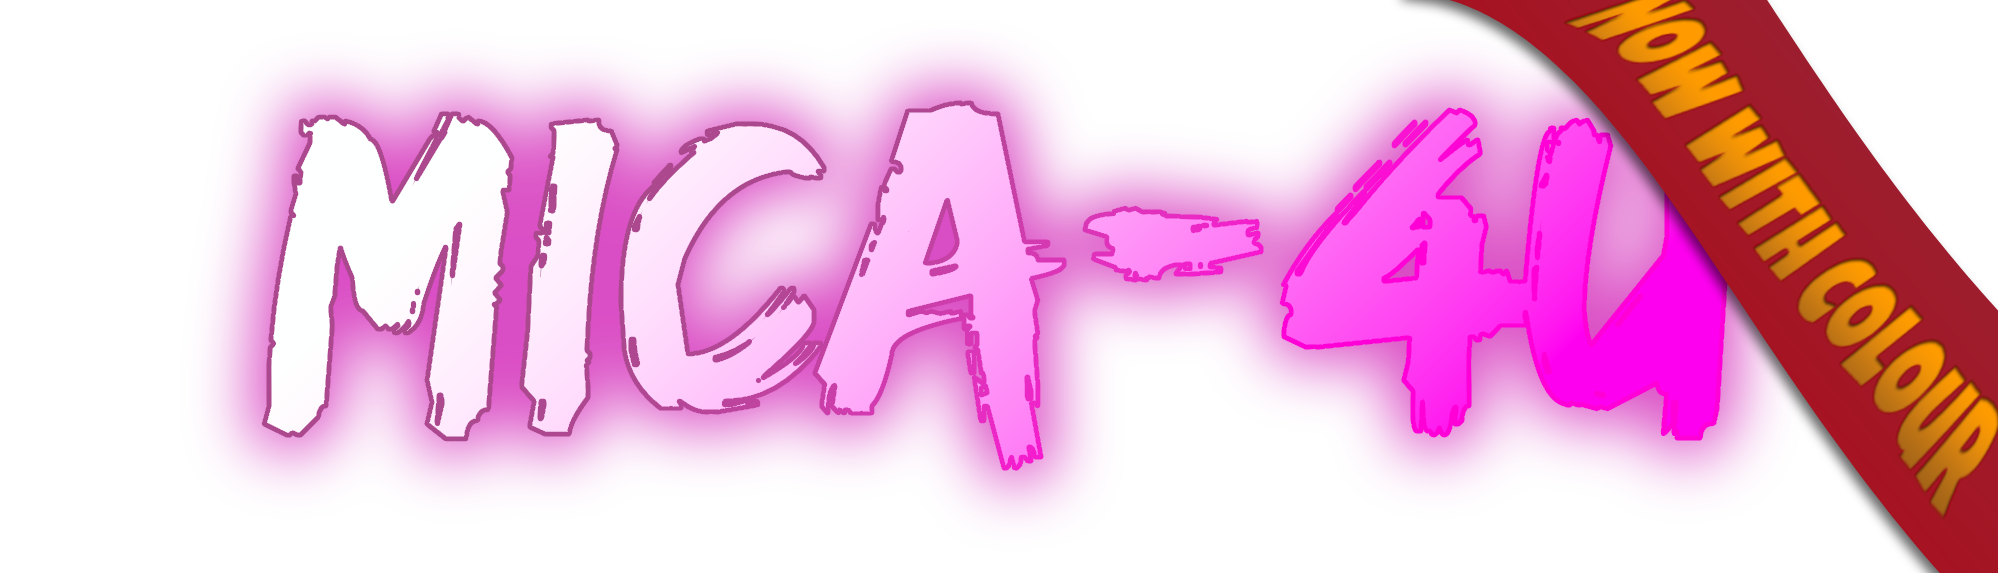
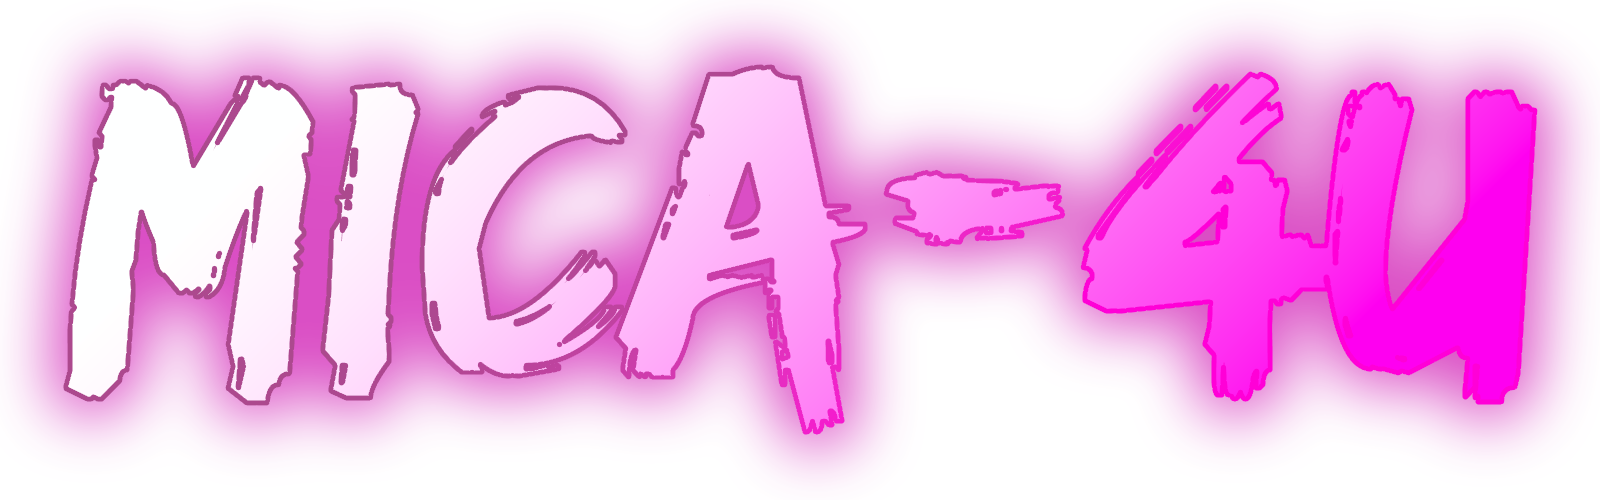
Fix header image width in README.md for better display Switch to Old Header, Looks More Proffesional

diff --git a/README.md b/README.md
@@ -1,4 +1,4 @@
-<p align="center"><img src="assets/Mica4U (Header).png" alt="Mica4U" width="100%"></p>
+<p align="center"><img src="assets/Mica4U (Header).png" alt="Mica4U"></p>
 <p align="center">
   <a href="https://www.gnu.org/licenses/lgpl-3.0"><img src="https://img.shields.io/badge/License-LGPL_v3-blue.svg?style=flat-rounded" alt="License: LGPL v3"></a>
   <a href="https://github.com/DRKCTRLDEV/Mica4U/releases"><img src="https://img.shields.io/github/v/release/DRKCTRLDEV/Mica4U.svg?style=flat-rounded" alt="GitHub release"></a>
